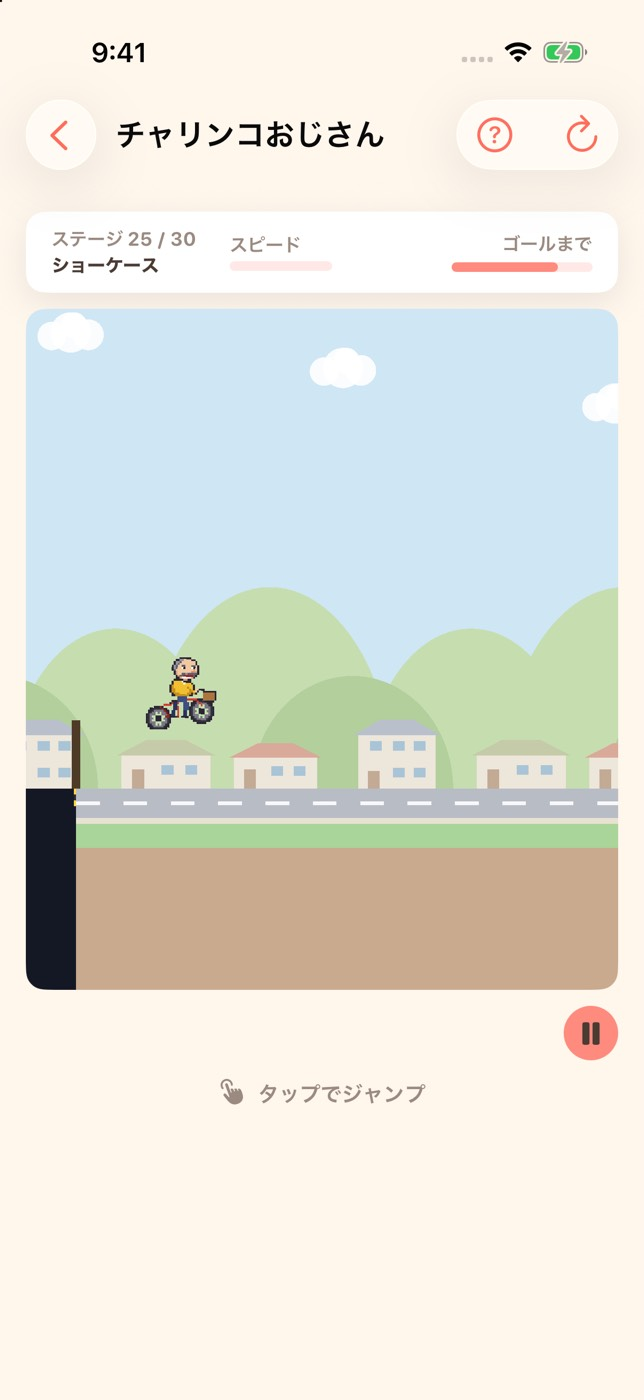
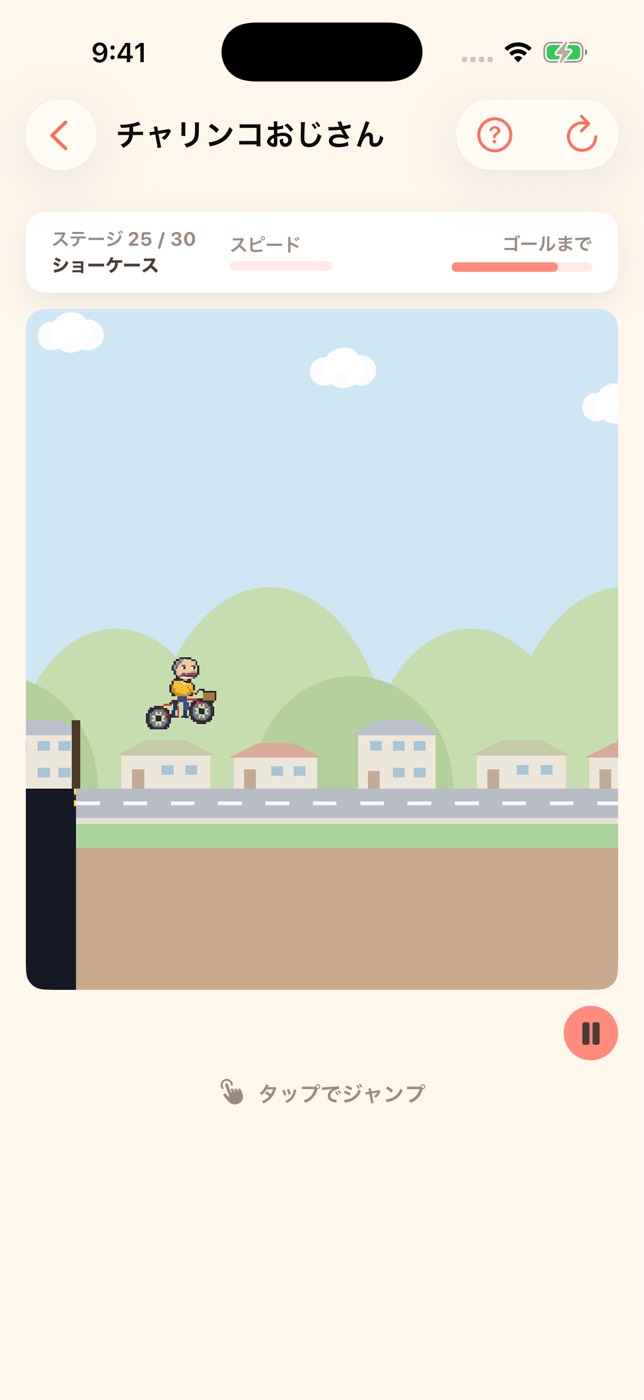
fix(runner): 崩れる足場に台座の置き方の規則と配色の検査を実際に掛ける（#1090）
敵対的検証（verifier）で、PR 本文の「テストで担保している」という主張が 2 か所とも
空振りしていたのが分かったので直した。

- `platformsHaveFlatGroundOnBothSides` が記号 `P` しか見ておらず、`C` は素通りだった。
  `RunnerStage.platformKind(_:)` で見る形に変え、26 面とショーケースの足場の直前に
  高い岩を置くと赤になることを実測
- `dressedForegroundStandsOutFromBackdrops` に崩れる足場の色が 1 つも入っていなかった。
  この足場は縁取りのノードを持たないので、既存の「主色か縁取り」の枠ではなく
  **主色だけで 3:1** を要求する形で足した。縄（`crumbleRope`）はこれを満たさなかったので
  0x9A7B4F → 0x6A4F2B に暗くした
- `crumbleDeck` の doc にあった実在しない色の引用と「里山の空・丘とも 3:1 以上」という
  偽の記述を、実測どおりに書き直した
- 崩れの時計を移動より先に進めている 1 サブステップぶんを `crumbleMaxLength(at:)` から引き、
  式のほうで飲み込むようにした
- 「乗らずに跳び越せる」は**本編で足場を置く面の最遅（24 面）**で見る。台座は正面が壁で
  助走が要るぶん、ショーケースの 34 では届かない（doc に実測値で明記）
- 24〜28・30 面のパターン行のコメントを実際の内訳に更新し、済んだ「予定: 古い桟橋」を外した
- 撮影シナリオ `crumble-fallen:<面>` を足した（里山＝川・港町＝海が板の下に出る画）

Changed region(s): [[0.3416, 0.0, 0.6522, 0.0614]]

diff --git a/Packages/GameKit/Sources/GameRunner/RunnerStage.swift b/Packages/GameKit/Sources/GameRunner/RunnerStage.swift
@@ -328,9 +328,13 @@ public enum RunnerRules {
     /// - **公平さの計算に効く**。渡り切るのに要る距離がそのまま板張りの長さなので、短いほど
     ///   `crumbleDuration` に余裕が出る。区画まるごと（64）だと、ショーケース（速さ 34）で
     ///   渡り切るのに 1.88 秒かかり、崩れるまでの時間をそれ以上に伸ばさないと成立しない
-    /// - **跳び越す選択肢が残る**。板張り 48 なら二段ジャンプの飛距離（`doubleJumpRange(at:)` は
-    ///   速さ 34 で 58.0）の内側で、「乗らずに跳び越えれば崩れない」という決裁の遊びが
-    ///   いちばん遅い面でも成立する
+    /// - **跳び越す選択肢が残る**。台座は正面が壁なので、左端に届く前に上面より高く上がる助走
+    ///   （`riseTime(to: platformHeight) × 速さ` ＋ 半身）が要る。本編で足場を置いてある
+    ///   いちばん遅い 24 面（52.4）では 助走 14.8 ＋ 板張り 48 = 62.8 で、二段ジャンプの飛距離
+    ///   89.5（`doubleJumpRange(at:)`）の内側——「乗らずに跳び越えれば崩れない」という決裁の
+    ///   遊びが成立する。区画まるごと（64）だと 78.8 になり、速い面でしか成立しない
+    ///   （QA 用ショーケースの 34 では助走 12.4 ＋ 48 = 60.4 が飛距離 58.0 を超えて越えられないが、
+    ///   そちらは撮影用のコースで本編には出ない）
     ///
     /// 沈む床の岸（`sinkFloorBankTiles`）と同じ値・同じ役割で、見た目の側でも
     /// 「板の手前に必ず地面が見える」ほうが踏み切る位置を読みやすい。
@@ -358,7 +362,7 @@ public enum RunnerRules {
     /// 場合の扱い」への回答）。抜けるのは**左から順**で、走者は必ず右へ進むので、
     /// 抜けた縁が走者に追いつくことはない——追いつかないことは
     /// 「板張りの長さ < その面の速さ × `crumbleDuration`」と同じ式で、
-    /// `RunnerStageTests.crumblingPlatformsAreCrossableAtMinimumPedal` がそれを固定する
+    /// `RunnerCrumblingPlatformTests.crumblingPlatformsAreCrossableAtMinimumPedal` がそれを固定する
     /// （縁は `crumbleWarnDuration` で 0、`crumbleDuration` で板張りの右端に達する 1 次式なので、
     /// 両端で走者より後ろなら途中も後ろ）。
     ///
@@ -375,10 +379,15 @@ public enum RunnerRules {
     /// **ペダルの乗りが最低（1.0 倍）でも渡り切れること**が決裁の公平さの条件。接地中の速さは
     /// `speed × 乗り` で乗りは 1 以上、空中の横速度は必ず `speed`（`RunnerField.currentSpeed`）
     /// なので、**跳ぼうが跳ぶまいが横の進みは `speed` を下回らない**——上限はこの 1 本で足りる。
-    /// 板張り 48 に対し、いちばん遅いショーケース（34）で 54.4、里山の初出 24 面（52.4）で 83.8。
+    ///
+    /// 崩れの時計を進めるのは 1 サブステップの**移動より先**（`RunnerField.advance`）なので、
+    /// 崩れ切る瞬間の走者は「時計どおりの位置」より最大 1 サブステップぶん手前にいる。
+    /// その `RunnerField.Metrics.maxSubstep` を上限から引いて、式のほうで飲み込んでおく。
+    ///
+    /// 板張り 48 に対し、いちばん遅いショーケース（34）で 52.4、里山の初出 24 面（52.4）で 81.8。
     /// 2 区画ぶん（112）はどの面でも超えるので、**連続した `C` は機械的に弾かれる**。
     public static func crumbleMaxLength(at speed: Double) -> Double {
-        speed * crumbleDuration
+        speed * crumbleDuration - RunnerField.Metrics.maxSubstep
     }
 
     /// 二段ジャンプで空中にいられる最大の時間。
@@ -1109,9 +1118,13 @@ public extension RunnerStage {
         // 5 区画以内の手前に置かない、先頭・末尾の 2 区画は平地）で、面ごとに台座 1〜2 基（1 基 2 区画。
         // 25・26 面だけ 2 基）と床 1 本（2 区画）を置く。
         //
-        // **新しい仕組みのうち突き上げ（#1010・`^`）と沈む床（#1089・`~`）は入った。** 残る 2 つ
-        // （#1090 崩れる足場・#1091 高い塀）はまだ `release/v1.1.6` に無いので、予定の区画を今ある障害で
-        // 仮に埋めてある（#1009 本文 D）。仮置きは 高い塀 → 高い岩 `t`、崩れる足場 → 3 タイルの穴 `3`。
+        // **新しい仕組みのうち突き上げ（#1010・`^`）・沈む床（#1089・`~`）・崩れる足場（#1090・`C`）は
+        // 入った。** 残る #1091 高い塀はまだ `release/v1.1.6` に無いので、予定の区画を高い岩 `t` で
+        // 仮に埋めてある（#1009 本文 D）。
+        //
+        // 崩れる足場は台座（`P`）と同じ置き方の規則（前後の区画は素の平地）が掛かるので、`3` を `C` に
+        // 置き換えるにあたって 24〜28・30 面の並びを組み直した（減った障害は同じ面の別の区画へ移し、
+        // 世界の中で障害の数が減らないようにしてある。#1090）。
         // 各行の「予定」に区画番号（0 始まり）を残してあるので、仕組み側の Issue はそこを自分の記号へ
         // 置き換える。予定の区画は #1009 の「入れない組み合わせ」を守る位置に選んである:
         // 鳥の隣に突き上げを置かない・崩れる足場と沈む床の直後に鳥を置かない・高い塀の直後
@@ -1122,15 +1135,15 @@ public extension RunnerStage {
         "--PP-1n-^-2ikt1n==-^2b-ti1^---",           // 19: 30区画・障害15個（穴5+低い岩2+高い岩2+鳥1+イノシシ2+竹の子3）。里山に入った。竹の子を覚える（初出の区画 8 は前後を素の平地にして単独で見せる）
         "--1n^-2dkt1-PP-n^2itn==-^1b-^--",          // 20: 31区画・障害17個（穴5+低い岩3+高い岩2+鳥1+犬1+イノシシ1+竹の子4）。切り株（`n`）のすぐ隣に竹の子（区画 3〜4・15〜16）。低く跳ぶか高く跳ぶかの見極め
         "--1tn-~-2ikn^1==-t1d~-b2t-PP-^--",         // 21: 32区画・障害15個（穴5+低い岩2+高い岩3+鳥1+犬1+イノシシ1+竹の子2）＋短い田んぼ 2（区画 6・20。#1089）。田んぼを覚える（区画 6 は前後を素の平地にして単独で見せる）
-        "--PP-1n~~kt2^-n1d-==-t~~1^2b-t1--",        // 22: 33区画・障害15個（穴6+低い岩2+高い岩3+鳥1+犬1+竹の子2）＋長い田んぼ 2（区画 7〜8・22〜23。二段でも跳び越せず連打が要る）。予定: 吊り橋（#1090）は置かない
+        "--PP-1n~~kt2^-n1d-==-t~~1^2b-t1--",        // 22: 33区画・障害15個（穴6+低い岩2+高い岩3+鳥1+犬1+竹の子2）＋長い田んぼ 2（区画 7〜8・22〜23。二段でも跳び越せず連打が要る）。吊り橋（#1090）は決裁どおり置かない
         "--1^n~1ikt2^n~2d-==-t^1bn~-^-PP---",       // 23: 34区画・障害17個（穴5+低い岩3+高い岩2+鳥1+犬1+イノシシ1+竹の子4）＋短い田んぼ 3（区画 5・13・25）。田んぼを抜けた直後に用水路（区画 6・14）
-        "--PP-1^n~ikt^2~1dn==-^-C-^t1b~-t---",      // 24: 35区画・障害17個（穴5+低い岩2+高い岩3+鳥1+犬1+イノシシ1+竹の子4）＋短い田んぼ 3（区画 8・14・29）。予定: 吊り橋（#1090）= 区画 23 / 石垣（#1091）= 区画 31。里山の締め。全部入り
-        "--PP-1n-C-tik2t1==-t2-C-ti-PP-d21b--",     // 25: 36区画・障害17個（穴8+低い岩1+高い岩4+鳥1+犬1+イノシシ2）。予定: 古い桟橋（#1090）= 区画 8・22。港町に入った。桟橋の先が切れ目
-        "--1-C-2dk-^-n-PP-t-C-1i2==-^n2b-C-t--",    // 26: 37区画・障害18個（穴8+低い岩2+高い岩2+鳥1+犬1+イノシシ2+波しぶき2）。予定: 古い桟橋 = 区画 3・16・28。波しぶきの初出（区画 8 は前後を素の平地）
-        "--PP-1n-t-2ik-C-2t-==-2d-C-tb1t-1it---",   // 27: 38区画・障害20個（穴8+低い岩2+高い岩6+鳥1+犬1+イノシシ2）。予定: 古い桟橋 = 区画 14・25 / コンテナ（#1091）= 区画 8・30。二段ジャンプを覚える
-        "--1t-C-ikt^12t--C-t1==-^n2b-t-C-ti-PP--",  // 28: 39区画・障害22個（穴9+低い岩1+高い岩6+鳥1+犬1+イノシシ2+波しぶき2）。予定: 古い桟橋 = 区画 5・16・30 / コンテナ = 区画 3・13・28
+        "--PP-1^n~ikt^2~1dn==-^-C-^t1b~-t---",      // 24: 35区画・障害16個（穴4+低い岩2+高い岩3+鳥1+犬1+イノシシ1+竹の子4）＋短い田んぼ 3（区画 8・14・29）＋吊り橋 1（区画 23。#1090）。予定: 石垣（#1091）= 区画 31。里山の締め。全部入り
+        "--PP-1n-C-tik2t1==-t2-C-ti-PP-d21b--",     // 25: 36区画・障害15個（穴6+低い岩1+高い岩4+鳥1+犬1+イノシシ2）＋古い桟橋 2（区画 8・22。#1090）。港町に入った。桟橋を覚える（区画 8 は前後を素の平地にして単独で見せる）
+        "--1-C-2dk-^-n-PP-t-C-1i2==-^n2b-C-t--",    // 26: 37区画・障害14個（穴5+低い岩2+高い岩2+鳥1+犬1+イノシシ1+波しぶき2）＋古い桟橋 3（区画 4・19・32。#1090）。波しぶきの初出（区画 10 は前後を素の平地）
+        "--PP-1n-t-2ik-C-2t-==-2d-C-tb1t-1it---",   // 27: 38区画・障害16個（穴6+低い岩1+高い岩5+鳥1+犬1+イノシシ2）＋古い桟橋 2（区画 14・25。#1090）。予定: コンテナ（#1091）= 区画 8・30。二段ジャンプを覚える
+        "--1t-C-ikt^12t--C-t1==-^n2b-t-C-ti-PP--",  // 28: 39区画・障害17個（穴5+低い岩1+高い岩6+鳥1+イノシシ2+波しぶき2）＋古い桟橋 3（区画 5・16・30。#1090）。予定: コンテナ（#1091）= 区画 3・13・28
         "--PP--~-^2iktt-1n~it-==-^2b-t-~1t^nd2---", // 29: 40区画・障害19個（穴5+低い岩2+高い岩5+鳥1+犬1+イノシシ2+波しぶき3）＋短い干潟 3（区画 6・17・30。#1089）。里山で覚えた仕組みの港版（区画 6 は前後を素の平地にして単独で見せる）
-        "--PP-1^n~ik-C-t1d^1-==-t~itt-C-b-^n~1t---", // 30: 41区画・障害22個（穴7+低い岩2+高い岩6+鳥1+犬1+イノシシ2+波しぶき3）＋短い干潟 3（区画 8・24・35）。予定: 古い桟橋（#1090）= 区画 12・29 / コンテナ（#1091）= 区画 14・27・37。港町の締め。全部入り
+        "--PP-1^n~ik-C-t1d^1-==-t~itt-C-b-^n~1t---", // 30: 41区画・障害18個（穴4+低い岩2+高い岩5+鳥1+犬1+イノシシ2+波しぶき3）＋短い干潟 3（区画 8・24・35）＋古い桟橋 2（区画 12・29。#1090）。予定: コンテナ（#1091）= 区画 14・27・37。港町の締め。全部入り
     ]
 }
 
@@ -1164,7 +1177,7 @@ public extension RunnerStage {
     /// `sink-failed`）を撮る間が無い。2 区画ぶん（= 長い床）なら、跳ばずに走らせれば必ず沈み切る。
     /// 崩れる足場（`C`・#1090）は台座の次に 1 区画。**連続では置けない**——2 区画ぶんの板張りは
     /// どの面の速さでも渡り切れず（`RunnerRules.crumbleMaxLength(at:)`）、
-    /// `RunnerStageTests.crumblingPlatformsAreCrossableAtMinimumPedal` が弾く。
+    /// `RunnerCrumblingPlatformTests.crumblingPlatformsAreCrossableAtMinimumPedal` が弾く。
     static let debugShowcase = RunnerStage(
         number: 0,
         pattern: "--==-kn--t--b--d--i--^--~~--PP--C--1--2--3--",

diff --git a/Packages/GameKit/Tests/GameRunnerTests/CrumblingPlatformTests.swift b/Packages/GameKit/Tests/GameRunnerTests/CrumblingPlatformTests.swift
@@ -12,9 +12,34 @@ import Testing
 struct RunnerCrumblingPlatformTests {
     private static let segment = Double(RunnerRules.segmentTiles) * RunnerRules.tileWidth
     private static let bank = Double(RunnerRules.crumbleBankTiles) * RunnerRules.tileWidth
-    /// 本編で崩れる足場が置かれる面の基準速。遅い面ほど渡るのに時間がかかる＝不利。
+    /// 崩れる足場が置いてある面の基準速。遅い面ほど渡るのに時間がかかる＝不利なので、
+    /// 実走の検証はこの最小値で行う。
+    ///
+    /// **QA 用ショーケース（速さ 34）も数える。** 本編の最遅は 24 面の 52.4 だが、
+    /// 足場が実際に置いてあるいちばん遅いコースはショーケースで、猶予（1.6 秒）と
+    /// 二段ジャンプの飛距離（58.0）の根拠もそちらの数字で書いてある
+    /// ——ここを本編だけにすると、根拠に挙げた下限が実走で 1 度も踏まれない
+    /// （2026-09-18 の敵対的検証の指摘）。
     private static var crumbleStageSpeeds: [Double] {
-        RunnerStage.all.filter { !$0.crumblingPlatforms.isEmpty }.map(\.speed)
+        var speeds = RunnerStage.all.filter { !$0.crumblingPlatforms.isEmpty }.map(\.speed)
+        #if DEBUG
+        if !RunnerStage.debugShowcase.crumblingPlatforms.isEmpty {
+            speeds.append(RunnerStage.debugShowcase.speed)
+        }
+        #endif
+        return speeds
+    }
+
+    /// 本編（`RunnerStage.all`）で崩れる足場が置かれる面のうち、いちばん遅い基準速。
+    ///
+    /// **「乗らずに跳び越せる」はこちらで見る。** 台座は正面が壁なので、左端に届く前に
+    /// 上面より高く上がっておく助走（`riseTime(to:) × speed`）が要り、その助走ぶんは
+    /// 速さに比例しない——**速い面ほど跳び越しやすい**。ショーケース（34）では
+    /// 助走 12.4 ＋ 板張り 48 = 60.4 が二段ジャンプの飛距離 58.0 を上回って越えられないが、
+    /// 本編で置いてあるのは 24 面（52.4）以降で、そこでは 62.8 < 89.5 で越えられる。
+    private static var slowestStoryCrumbleSpeed: Double {
+        RunnerStage.all.filter { !$0.crumblingPlatforms.isEmpty }.map(\.speed).min()
+            ?? RunnerRules.baseSpeed
     }
 
     /// `pattern` の足場の上に走者を立たせた `RunnerField`。
@@ -196,9 +221,12 @@ struct RunnerCrumblingPlatformTests {
 
     /// **乗らなければ崩れない**。岸で踏み切って二段目を頂点で踏めば、板に足を着けずに越えられる
     /// （`RunnerRules.crumbleBankTiles` が板張りを二段ジャンプの飛距離の内側に収めている）。
+    ///
+    /// 速さは**本編で足場を置いてある面のいちばん遅い側**（`slowestStoryCrumbleSpeed`）。
+    /// ショーケースの 34 では助走ぶん届かない——その理由は同プロパティの doc にある。
     @Test("乗らずに二段ジャンプで跳び越せば足場は崩れない")
     func jumpingOverTheDeckLeavesItIntact() {
-        let speed = Self.crumbleStageSpeeds.min() ?? RunnerRules.baseSpeed
+        let speed = Self.slowestStoryCrumbleSpeed
         let stage = RunnerStage(number: 1, pattern: "--C----", speed: speed)
         let platform = stage.crumblingPlatforms[0]
         var field = RunnerField(stage: stage)
@@ -339,6 +367,12 @@ struct RunnerCrumblingPlatformTests {
     /// （鳥の下は走ったまま抜けるしかないのに、足場が崩れると逃げ場が無い）。
     /// **崩れる足場の上に沈む床を置かない**（区画記号は 1 文字なので同じ区画には作れないが、
     /// 隣り合わせても水の上で踏み切り直すことになるので弾く）。
+    ///
+    /// 「手前」は**直後の 1 区画**と読む（沈む床の `sinkFloorsAvoidBirdsPlatformsAndShoots` と
+    /// 同じ距離）。台座の規則で足場の前後は必ず素の平地なので、鳥が居られるのは 2 区画以上
+    /// 先——そこまで来れば足場は背後にあり、地面を走ったまま鳥の下を抜けられる。
+    /// 併せて**鳥の等価な静止区間（`RunnerHazard.encounter`）が板張りに重なっていない**ことも
+    /// 座標で見る（記号の隣接だけだと、飛び立つ鳥が手前へ伸びる分を見落とす）。
     @Test("崩れる足場の隣に鳥・沈む床を置かない")
     func crumblingPlatformsAvoidBirdsAndSinkFloors() {
         var stages = RunnerStage.all
@@ -355,6 +389,16 @@ struct RunnerCrumblingPlatformTests {
                     #expect(
                         s != RunnerStage.sinkFloorSymbol,
                         "ステージ \(stage.number): 区画 \(index) の足場の隣が沈む床"
+                    )
+                }
+            }
+            // 鳥の「関わる区間」が板張りに重なっていないこと（座標で見る）。
+            for platform in stage.crumblingPlatforms {
+                for bird in stage.hazards where bird.kind == .bird {
+                    let range = bird.activeRange
+                    #expect(
+                        !(range.lowerBound < platform.end && platform.start < range.upperBound),
+                        "ステージ \(stage.number): 鳥の区間が崩れる足場に重なっている"
                     )
                 }
             }

diff --git a/Packages/GameKit/Tests/GameRunnerTests/WorldTests.swift b/Packages/GameKit/Tests/GameRunnerTests/WorldTests.swift
@@ -430,6 +430,35 @@ struct RunnerWorldTests {
                 )
             }
         }
+        // 崩れる足場（#1090）は**縁取りのノードを持たない**（板 1 枚ずつに `SKShapeNode` を足すと
+        // 1 基で 20 個増える）。したがって上の `items` の形（主色か縁取りのどちらかが通ればよい）に
+        // 混ぜてはいけない——混ぜると縁取りの色だけで通ってしまい、板を背景と同じ色にしても緑になる
+        // （2026-09-18 の敵対的検証で実測）。**主色だけで 3:1 を要求する**。
+        //
+        // 3:1 を担うのは板の木目（`crumbleDeckSeam`。板 1 枚ごとに下端へ入るので、抜け落ちていく
+        // 途中でも残った板の輪郭が読める）と、崩れても残る柱・杭（`crumblePost`）。板の面
+        // （`crumbleDeck`）は乗る面なのでいちばん明るく、淡い背景とは 1.0〜1.5:1 しか無い
+        // ——竹の子・波しぶきとまったく同じ「濃い側が担う」形。
+        for world in [RunnerWorld.satoyama, RunnerWorld.harbor] {
+            for (part, color) in [("板の木目", P.crumbleDeckSeam), ("柱・杭", P.crumblePost)] {
+                for (name, backdrop) in world.groundBackdrops {
+                    #expect(
+                        WCAG.contrast(color, backdrop) >= 3.0,
+                        "\(world) の崩れる足場の\(part)が \(name) (\(String(backdrop, radix: 16))) に溶ける"
+                    )
+                }
+            }
+        }
+        // 縄は板の**上**（空・丘を背に）に張るので、模様ではなく手前の物として背景と比べる。
+        for (name, backdrop) in RunnerWorld.satoyama.groundBackdrops {
+            #expect(
+                WCAG.contrast(P.crumbleRope, backdrop) >= 3.0,
+                "吊り橋の縄が \(name) (\(String(backdrop, radix: 16))) に溶ける"
+            )
+        }
+        // ひびは板の面の上に描く模様なので、板とだけ比べる（矢印を床と比べるのと同じ扱い）。
+        #expect(WCAG.contrast(P.crumbleCrack, P.crumbleDeck) >= 3.0, "崩れる予告のひびが板に溶ける")
+
         // 加速床は路面の中に描かれるので路面とだけ比べる（`foregroundStandsOutFromBackdrops` と同じ）。
         #expect(WCAG.contrast(P.pavedAsphalt, RunnerWorld.satoyama.road.asphalt) >= 3.0, "舗装が砂利道に溶ける")
         #expect(WCAG.contrast(P.pavedArrow, P.pavedAsphalt) >= 3.0, "舗装の矢印が読めない")

diff --git a/Packages/GameKit/Tests/GameRunnerTests/StageTests.swift b/Packages/GameKit/Tests/GameRunnerTests/StageTests.swift
@@ -768,21 +768,24 @@ struct RunnerStageTests {
     /// `RunnerPlaythroughTests` でも落ちるが、原因が配置のどこにあるかはここでしか分からない。
     ///
     /// QA用ショーケースも対象（`stagesUnderLayoutRules`）。
-    @Test("台座の前後の区画は平地になっている")
+    ///
+    /// **崩れる足場（`C`・#1090）も台座なので同じ規則を掛ける。** 記号で分岐せず
+    /// `RunnerStage.platformKind(_:)`（＝展開して台座になる記号か）で見るのは、
+    /// 台座の種類を増やしたときに**足し忘れても静かに素通りする**のを防ぐため
+    /// （2026-09-18 の敵対的検証で、`platformSymbol` だけを見ていたせいで
+    /// 26 面の足場の直前に高い岩を置いても全件緑だったのを実測）。
+    @Test("台座（崩れる足場を含む）の前後の区画は平地になっている")
     func platformsHaveFlatGroundOnBothSides() {
         for stage in stagesUnderLayoutRules {
             let symbols = Array(stage.pattern)
-            for (index, symbol) in symbols.enumerated() where symbol == RunnerStage.platformSymbol {
-                if index > 0, symbols[index - 1] != RunnerStage.platformSymbol {
+            for (index, symbol) in symbols.enumerated() {
+                guard let kind = RunnerStage.platformKind(symbol) else { continue }
+                for neighbor in [index - 1, index + 1] where symbols.indices.contains(neighbor) {
+                    // 同じ種類の台座が続いているだけなら 1 基にまとまるので見なくてよい。
+                    guard RunnerStage.platformKind(symbols[neighbor]) != kind else { continue }
                     #expect(
-                        symbols[index - 1] == "-",
-                        "ステージ \(stage.number): 台座の手前（区画 \(index - 1)）が平地でない"
-                    )
-                }
-                if index < symbols.count - 1, symbols[index + 1] != RunnerStage.platformSymbol {
-                    #expect(
-                        symbols[index + 1] == "-",
-                        "ステージ \(stage.number): 台座の直後（区画 \(index + 1)）が平地でない"
+                        symbols[neighbor] == "-",
+                        "ステージ \(stage.number): 台座 \(symbol)（区画 \(index)）の隣（区画 \(neighbor)）が平地でない"
                     )
                 }
             }

diff --git a/Packages/GameKit/Sources/GameRunner/RunnerWorld.swift b/Packages/GameKit/Sources/GameRunner/RunnerWorld.swift
@@ -833,15 +833,21 @@ public extension RunnerWorld {
         // 崩れる足場（`Dressing.CrumblingPlatform`・#1090）
         /// 古びた板（吊り橋・桟橋で共通）。乗る面なので**いちばん明るい**
         /// ——台座（#674）と同じく、遊ぶ人が最初に読み取るべきは「どこに足が着くか」。
-        /// 用水路の水（0x2C4A5A）・海（0x2E5C74）とも、里山の空・丘とも 3:1 以上。
+        ///
+        /// **この色は背景との 3:1（#929）を担っていない**（淡い丘・あぜ道とは 1.0〜1.5:1）。
+        /// 担うのは下の木目と柱・杭で、竹の子・波しぶきと同じ「濃い側が担う」形
+        /// （`WorldTests.dressedForegroundStandsOutFromBackdrops`）。
         public static let crumbleDeck: UInt32 = 0xD8C49A
-        /// 板の木目・板と板の継ぎ目。板と 3:1 以上で、抜け落ちる 1 枚の境目が読める暗さ。
+        /// 板の木目・板と板の継ぎ目。**板 1 枚ごとに下端へ入る**ので、抜け落ちていく途中でも
+        /// 残った板の輪郭が読める。里山・港町の背景の全部と 3:1 以上（この足場には縁取りの
+        /// ノードが無いので、主色だけで満たす必要がある）。
         public static let crumbleDeckSeam: UInt32 = 0x6B5233
-        /// 吊り橋の縄（主索と吊り索）。板より暗く、谷の水よりは明るい。
-        public static let crumbleRope: UInt32 = 0x9A7B4F
-        /// 桟橋の杭と、吊り橋の袂の柱。縄より暗い、濡れた木の色。
+        /// 吊り橋の縄（主索と吊り索）。板の上（空・丘を背に）へ張るので、こちらも背景と 3:1 以上。
+        public static let crumbleRope: UInt32 = 0x6A4F2B
+        /// 桟橋の杭と、吊り橋の袂の柱。**崩れても残る**ので、背景と 3:1 以上で「ここに橋があった」
+        /// と読める濃さにしてある。
         public static let crumblePost: UInt32 = 0x4E3B27
-        /// 崩れる予告のひび（揺れているあいだ板の上に出る）。板と 3:1 以上。
+        /// 崩れる予告のひび（揺れているあいだ板の上に出る）。板の面の上の模様なので板と 3:1 以上。
         public static let crumbleCrack: UInt32 = 0x3A2B18
     }
 }

diff --git a/Packages/GameKit/Sources/GameRunner/RunnerModel.swift b/Packages/GameKit/Sources/GameRunner/RunnerModel.swift
@@ -944,6 +944,27 @@ public final class RunnerModel {
                 advanceUntilForDebug { (0.5...0.8).contains($0.field.sinkProgress) }
                 isFrozenForCapture = true
             }
+        case let name where name.hasPrefix("crumble-fallen:"):
+            // 本番ステージの足場が**抜け落ちている最中**（里山＝川・港町＝海が板の下に見える）を撮る
+            // （例 `-simulateRunner crumble-fallen:24`）。ショーケースは朝の下町で谷が黒い空隙
+            // なので、「崩れた後に下の景色が見える」はこちらで確かめる。
+            //
+            // **崩れ切るまで待てない**のがこの面の事情。走者は板を渡り切ってからも基準速で進むので、
+            // 崩れ切る頃（乗ってから 1.6 秒）には足場の右端が 50 以上後ろ——画面に映る後方は
+            // `Metrics.playerX`（26）ぶんしかないので、足場ごと画面の外へ出る。板が画面に残る
+            // いちばん遅い瞬間（右端から 20 まで離れたところ）で止める。
+            if let number = Int(name.dropFirst("crumble-fallen:".count)),
+               let platform = RunnerStage.stage(number: number)?.crumblingPlatforms.first {
+                stageNumber = number
+                startStage(from: 0, passedCheckpoint: false)
+                press(); release()
+                runOntoCrumblingPlatformForDebug()
+                advanceUntilForDebug(jumping: true) { model in
+                    if model.crumbleProgressForDebug.map({ $0 >= 1 }) == true { return true }
+                    return model.field.distance > platform.end + 20
+                }
+                isFrozenForCapture = true
+            }
         case let name where name.hasPrefix("crumble:"):
             // 本番ステージの崩れる足場を、その面の世界の背景の上で撮る（例 `-simulateRunner crumble:24`）。
             // `crumble` はショーケース（朝の下町）で走るので、里山の古い吊り橋・港町の古い木の桟橋は
